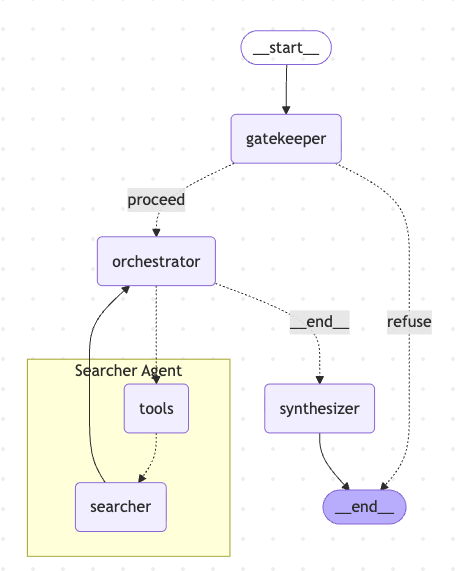
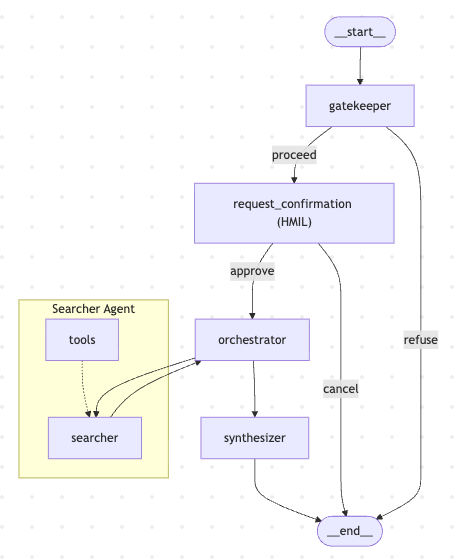
Update README file

diff --git a/webapp/app/api/copilotkit/route.ts b/webapp/app/api/copilotkit/route.ts
@@ -8,7 +8,7 @@ import { LangGraphHttpAgent } from "@copilotkit/runtime/langgraph";
 const runtime = new CopilotRuntime({
   agents: {
     default: new LangGraphHttpAgent({
-      url:  "http://localhost:8000/deep_researcher",
+      url:  process.env.DEEP_RESERACH_AGENT_URL || "http://localhost:8000/copilotkit/deep_researcher",
     }),
   }
 });

diff --git a/main.py b/main.py
@@ -39,7 +39,7 @@ async def lifespan(app: FastAPI):
             description="An example agent.",
             graph=graph,
         ),
-        path="/deep_researcher",
+        path="/copilotkit/deep_researcher",
     )
 
     yield

diff --git a/README.md b/README.md
@@ -1,6 +1,8 @@
 # The Deep Researcher
 
-This project showcases a practical implementation build of the deep researcher.
+A practical implementation of a Deep Researcher agent built with LangGraph, LangChain, and modern LLMs. The project demonstrates how multiple specialized agents collaborate to orchestrator, researcher, and synthesizer comprehensive answers.
+
+## High-level Architecture
 
 ![High-level Architecture](images/high-level_architecture.png)
 
@@ -10,15 +12,17 @@ This project showcases a practical implementation build of the deep researcher.
 
 ## Techstack:
 
-- Model
-    - OpenAI: gpt-5.1
-    - Google: Gemini 3.1 Flash Lite
+### AI Models
+- OpenAI: gpt-5.1
+- Google: Gemini 3.1 Flash Lite
+
+### Frameworks & Libraries
 - Python v3.14
 - LangChain v1.3.9
 - LangGraph v1.2.5
-- LangFuse
 - FastAPI
 - CopilotKit
+- LangFuse
 
 ## Dependencies
 
@@ -40,33 +44,64 @@ cd ai-training/deep_researcher_agent
 
 - Ensure Docker is running.
 - Open the project folder (`deep_researcher_agent`) in Visual Studio Code.
+- Reopen the project in the Dev Container
 - VSCode will automatically create a dev container in Docker.
 
-### 3. Set Up Environment Variables
+### 3. Running the Application
 
-- Duplicate the sample environment variables file `.env.sample` to `.env`.
-- Replace placeholder values with your actual environment variables (e.g., `OPENAI_API_KEY`, ...).
+#### Install Dependencies
 
-### 4. Run the backend server
+> Skip this step if you're using the Dev Container.
 
-There are two ways to run the development server:
+Install the project dependencies with **uv**.
 
-#### Using Langgraph cli
-Start the LangGraph development server:
 ```bash
-langgraph dev
+uv sync
 ```
 
-The server will be available at http://localhost:2024.
+If you don't have `uv` installed, follow the installation guide:
 
-You can then interact with the agent local server using [LangSmith Studio](https://smith.langchain.com/studio/?baseUrl=http://127.0.0.1:2024)
+https://docs.astral.sh/uv/
 
-#### Run fastapi server
-Start server
+#### Set Up Environment Variables
+
+Copy the sample environment file:
+
 ```bash
-PYTHONPATH=. fastapi dev
+cp .env.sample .env
+cp mcp/.env.sample mcp/.env
 ```
 
-The server will be available at http://localhost:8000.
+Replace placeholder values with your actual environment variables (e.g., `OPENAI_API_KEY`, ...).
 
-The chat endpoint is available at **http://localhost:8000/chat**. It provides a **streaming API** (Server-Sent Events), so your client should process the response incrementally as it is streamed.
+#### Start the MCP Server
+
+```bash
+cd mcp
+uv run main.py
+```
+
+#### Start the FastAPI Server
+
+```bash
+uv run fastapi dev
+```
+
+The backend will be available at:
+
+* **Base URL:** `http://localhost:8000`
+* **Chat API:** `http://localhost:8000/api/v1/chatbot/chat`
+* **Streaming Chat API:** `http://localhost:8000/api/v1/chatbot/chat/stream`
+* **CopilotKit Deep Researcher API:** `http://localhost:8000/copilotkit/deep_researcher/`
+
+> The CopilotKit endpoint can be integrated with CopilotKit using LangGraphHttpAgent. See the CopilotKit LangGraph FastAPI Quickstart for setup instructions: https://docs.copilotkit.ai/langgraph-fastapi/quickstart?agent=bring-your-own
+
+#### Running the Web Application
+
+```bash
+cd webapp
+npm install
+npm run dev
+```
+
+The web application will start in development mode and connect to the backend running on `http://localhost:8080`.
